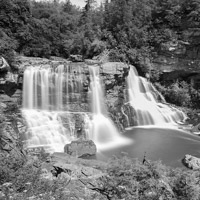
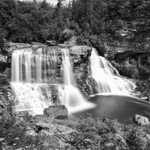
Swapped out some images on photography page
Swapped out some images that were meh with better ones, and updated the
blackwater falls thumbnail

diff --git a/photography.html b/photography.html
@@ -53,12 +53,12 @@ ga('send', 'pageview');
         <a href="img/landscapes/af.png" data-lightbox="image-1" data-title="Appalachian Farmland"><img src="img/thumbs/landscapes/af.jpg" alt="Appalachian Farmland" class="images"></a>
         <a href="img/landscapes/bf.jpg" data-lightbox="image-1" data-title="Blackwater Falls"><img src="img/thumbs/landscapes/bf.jpg" alt="Blackwater Falls" class="images"></a>
         <a href="img/landscapes/dh.jpg" data-lightbox="image-1" data-title="Dark Hollows Falls"><img src="img/thumbs/landscapes/dh.jpg" alt="Dark Hollows Falls" class="images"></a>
-        <a href="img/landscapes/ef2.jpg" data-lightbox="image-1" data-title="Elakala Falls"><img src="img/thumbs/landscapes/ef2.jpg" alt="Elakala Falls" class="images"></a>
-        <a href="img/landscapes/hr.jpg" data-lightbox="image-1" data-title="Humpback Rocks"><img src="img/thumbs/landscapes/hr.jpg" alt="Humpback Rocks" class="images"></a>
+        <a href="img/landscapes/the_depths.jpg" data-lightbox="image-1" data-title="From The Depths Below"><img src="img/thumbs/landscapes/depths_thumb.jpg" alt="From The Depths Below" class="images"></a>
+        <a href="img/landscapes/blackrock_summit.png" data-lightbox="image-1" data-title="Blackrock Summit Panorama"><img src="img/thumbs/landscapes/blackrock_thumb.jpg" alt="Blackrock Summit Panorama" class="images"></a>
         <a href="img/landscapes/lp.jpg" data-lightbox="image-1" data-title="Lindy Point"><img src="img/thumbs/landscapes/lp.jpg" alt="Lindy Point" class="images"></a>
         <a href="img/landscapes/lps.jpg" data-lightbox="image-1" data-title="Lindy Point Sunset"><img src="img/thumbs/landscapes/lps.jpg" alt="Lindy Point Sunset" class="images"></a>
         <a href="img/landscapes/to.jpg" data-lightbox="image-1" data-title="The Overlook"><img src="img/thumbs/landscapes/to.jpg" alt="The Overlook" class="images"></a>
-        <a href="img/landscapes/golyat.png" data-lightbox="image-1" data-title="Golyat"><img src="img/thumbs/landscapes/golyat.jpg" alt="Golyat s" class="images"></a>
+        <a href="img/landscapes/golyat.png" data-lightbox="image-1" data-title="Golyat"><img src="img/thumbs/landscapes/golyat.jpg" alt="Golyat" class="images"></a>
     </div>
  </div>
 <h2 class="categories">Weddings</h2>
